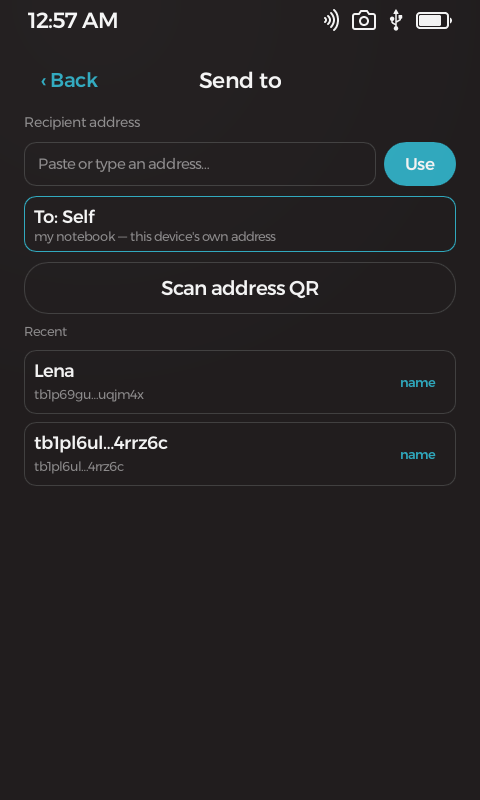
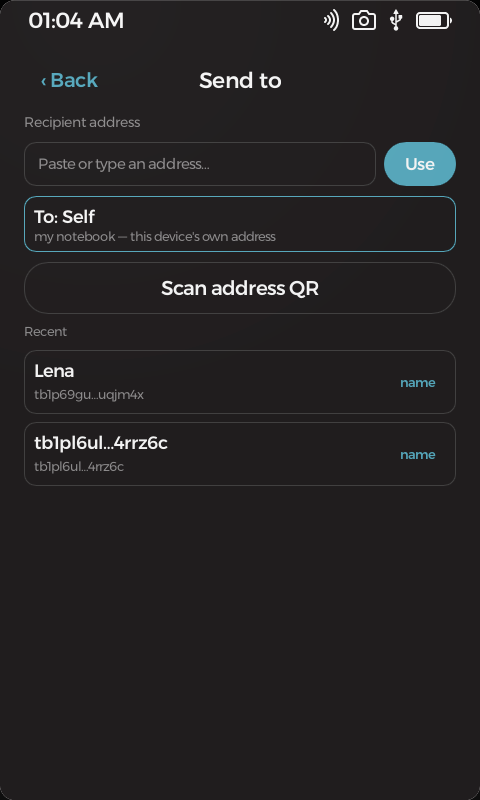
README: notebooks — hero shot + feature copy, frameless screenshots
Adds the notebooks feature to the product landing page: a new hero
"notebooks" screenshot (the list is the main screen now), a Notebooks
feature bullet, and updated copy for wallet-wide Coins/consolidate/sweep
and wallet-wide network. Regenerated home (a notebook's home — back +
name header, no Settings), notes (with the sender filter), and contacts
as frameless 480×800 bare app screens via the rewritten prime-shot.sh.

diff --git a/README.md b/README.md
@@ -4,23 +4,26 @@
 
 Compose a note on your Passport Prime, seal it with a key only your device seed can re-derive — or leave it deliberately public — and the app builds and signs a real bitcoin transaction carrying the note. An online companion page broadcasts it and scans the chain; the device and the companion exchange nothing but files and QR codes. Your address history *is* the notebook: wipe the device, restore your seed, rescan the chain — every note comes back, private ones decrypted, with nothing stored anywhere else.
 
+Keep as many **notebooks** as you like — each is its own address, derived from the same device seed, with its own notes, balance, and name. Sort a life's worth of notes: one for gifts, one for a project, one you'll archive when it's done.
+
 <p align="center">
-  <img src="screenshots/home.png" alt="Home — address QR, balance, sync status" width="270">
+  <img src="screenshots/notebooks.png" alt="Notebooks — one address each, named, from the same seed" width="270">
   &nbsp;
-  <img src="screenshots/notes.png" alt="The notebook — private, public, sent and received notes" width="270">
+  <img src="screenshots/home.png" alt="A notebook — address QR, balance, sync status" width="270">
   &nbsp;
-  <img src="screenshots/compose.png" alt="Compose — live keystroke cost estimate with fee tiers" width="270">
+  <img src="screenshots/notes.png" alt="A notebook's notes — private, public, sent and received, filterable by sender" width="270">
 </p>
 
 ## Features
 
+- **Notebooks** — keep separate notebooks, each a distinct address derived from your one device seed, each with its own notes, balance, and name; create or archive them as your life needs, and filter a notebook's notes by who sent them.
 - **Public or private** — private notes are sealed with modern authenticated encryption before they ever leave the device; public notes are plain text for the world to read.
 - **Notes to other people** — composing starts at a **contacts picker**: yourself, recent addresses (nameable), a QR scan, or manual entry. Directed notes reach any taproot address like unstoppable, uncensorable mail; private directed notes can be read by exactly two devices — yours and theirs — and both can recover them from bare chain data after a wipe.
 - **A gift inside** — directed notes can carry a chosen amount of sats to the recipient, from the minimum dust up to whatever you like.
 - **Live cost while you type** — the compose screen re-prices on every keystroke with economy/normal/fast fee tiers or a custom rate, and the estimate is byte-exact against the transaction that actually gets signed.
 - **Sync without a cable** — bundles come in by animated QR straight to the device camera; signed transactions go out as a QR the companion scans with your webcam. Files and the Airlock volume cover the big transfers.
-- **Coins, sweep & consolidate** — a viewer-first Coins screen, one-tap consolidate, and a guided sweep flow that sends everything to any address you pick, all signed on-device.
-- **Every network** — mainnet, testnet4, signet, and regtest, with the relay policy verified live on testnet4.
+- **Coins, sweep & consolidate** — a wallet-wide Coins screen across every notebook, one-tap consolidate into a single coin, and a guided sweep that empties the whole wallet to any address you pick — all one transaction, all signed on-device.
+- **Every network** — mainnet, testnet4, signet, and regtest as one wallet-wide setting; each notebook keeps a separate ledger per chain, and the relay policy is verified live on testnet4.
 
 <p align="center">
   <img src="screenshots/contacts.png" alt="Send to — contacts picker with recents and QR scan" width="270">